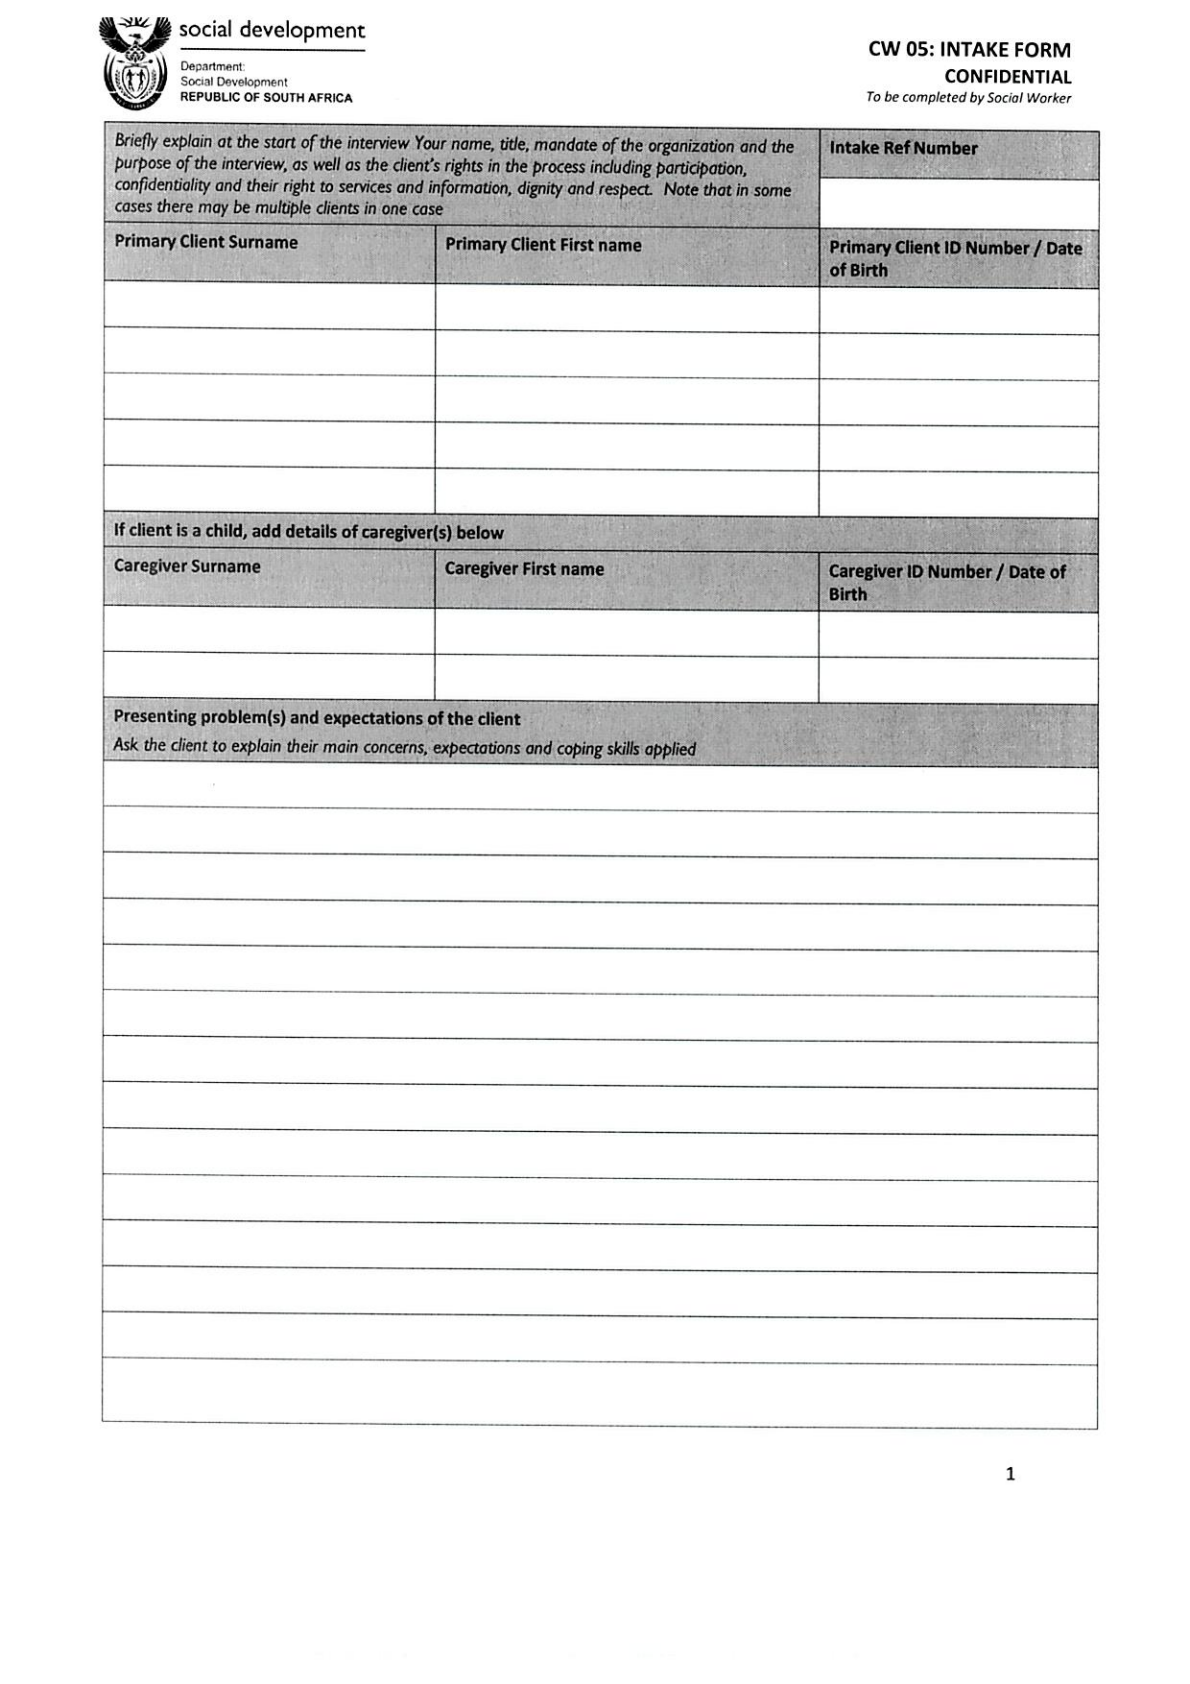
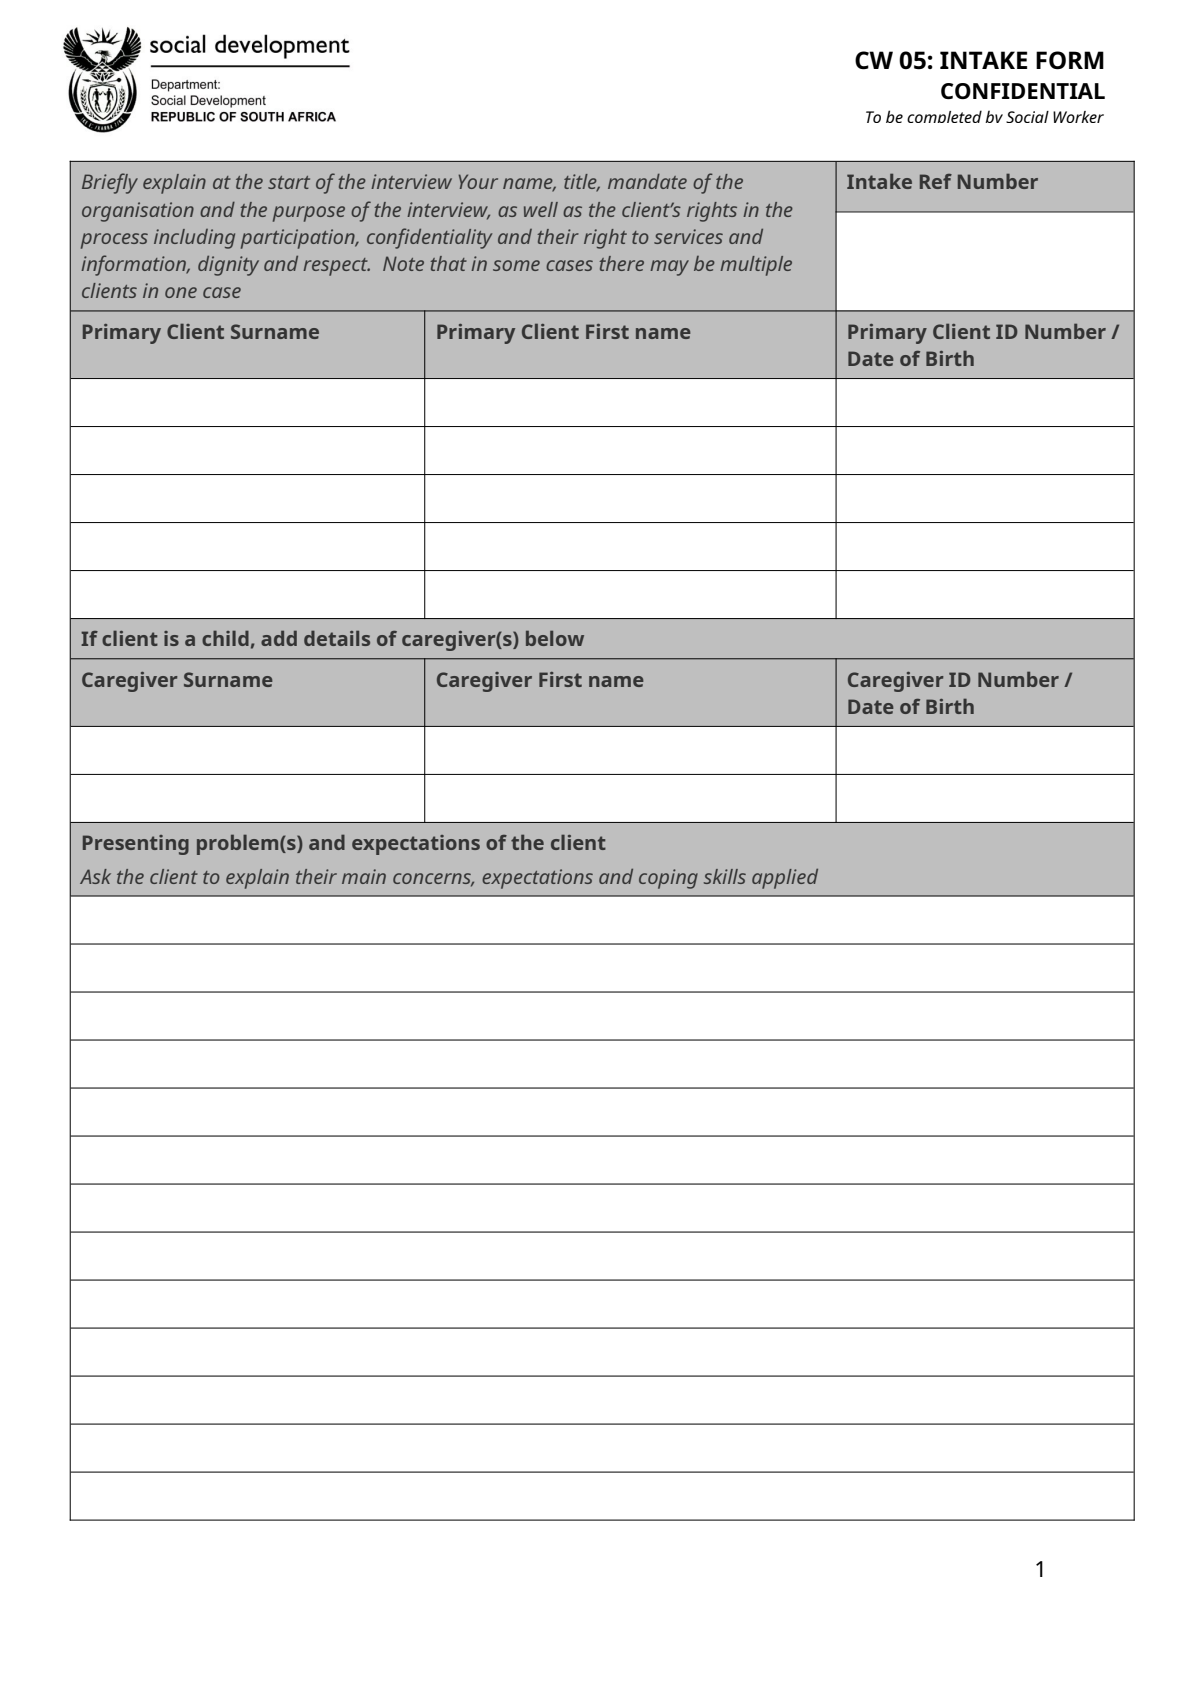
Phase 2 CW 05: Official Word Intake replaces NPO PDF blanks
Print /api/print/intake/ fills CW_05_Intake_Form_28082019.docx.
Scan blanks are four Word-rendered pages with recalibrated atlas boxes.

diff --git a/backend/core/form_atlas.py b/backend/core/form_atlas.py
@@ -1,8 +1,8 @@
 """One field atlas for fill, print, and Scan Intake.
 
 Boxes are normalised 0–1 on the official blank PNG (same file print uses).
-C01–C03 geometry is measured on Official Word blanks (C03 page 1 only).
-Other forms still use the NPO PDF blanks. Do not rename field labels.
+C01–C03 and CW 05 geometry is measured on Official Word blanks (C03 page 1
+only). Other forms still use the NPO PDF blanks. Do not rename field labels.
 """
 from functools import lru_cache
 
@@ -27,7 +27,8 @@ ATLAS_FORMS = {
         'orientation': 'portrait',
         'keywords': ['CW 05', 'CW05', 'INTAKE FORM', 'PRIMARY CLIENT SURNAME', 'INTAKE REF NUMBER'],
         'checklist_item': ('intake_form', 'CW05'),
-        'geometry': 'pdf',
+        # Boxes measured on CW_05_Intake_Form_28082019.docx blank PNGs (scale 2.0).
+        'geometry': 'word',
     },
     'c02': {
         'title': 'C02 ADULT Assessment Form',
@@ -351,24 +352,38 @@ def _build_fields():
         (0.2754, 0.7761, 0.9673, 0.7910),
     )
 
+    # CW 05 identity + key ticks measured on Official Word blanks (4 pages).
     intake = [
-        _f('household.org_household_number', 'Intake Ref Number', 0, (0.6891, 0.1057, 0.9235, 0.1366), 'printed'),
-        _f('caregiver.surname', 'Primary Client Surname', 0, (0.0874, 0.1663, 0.3664, 0.1960), 'handwrite'),
-        _f('caregiver.name', 'Primary Client First name', 0, (0.3664, 0.1681, 0.6891, 0.1977), 'handwrite'),
-        _f('caregiver.id_number', 'Primary Client ID Number / Date of Birth', 0, (0.6891, 0.1704, 0.9235, 0.1989), 'printed'),
-        _f('', 'Caregiver Surname', 0, (0.0874, 0.3593, 0.3655, 0.3884), 'handwrite'),
-        _f('', 'Caregiver First name', 0, (0.3655, 0.3610, 0.6882, 0.3901), 'handwrite'),
-        _f('', 'Caregiver ID Number / Date of Birth', 0, (0.6882, 0.3628, 0.9235, 0.3913), 'printed'),
-        _f('', 'Presenting problem(s) and expectations of the client', 0, (0.0866, 0.4513, 0.9227, 0.8486), 'narrative'),
-        _f('', 'Primary Problem Code (see CW 06)', 1, (0.0866, 0.4608, 0.3311, 0.4970), 'printed'),
-        _f('', 'Other Problem Codes', 1, (0.3311, 0.4620, 0.9227, 0.5000), 'printed'),
-        _f('', 'Risk Level Emergency', 1, (0.3403, 0.4679, 0.3521, 0.4757), 'checkbox', option='Emergency'),
-        _f('', 'Risk Level High', 1, (0.5370, 0.4691, 0.5487, 0.4768), 'checkbox', option='High'),
-        _f('', 'Risk Level Mild', 1, (0.7345, 0.4697, 0.7454, 0.4780), 'checkbox', option='Mild'),
-        _f('', 'Intake Action Emergency Action', 1, (0.3403, 0.5178, 0.3529, 0.5267), 'checkbox'),
-        _f('', 'Do you consent to the recommended Intake Action above Yes', 2, (0.3412, 0.0926, 0.3538, 0.1015), 'checkbox', option='Yes'),
-        _f('', 'Do you consent to the recommended Intake Action above No', 2, (0.3412, 0.1063, 0.3538, 0.1152), 'checkbox', option='No'),
-        _f('', 'Open file', 2, (0.3714, 0.8195, 0.3832, 0.8284), 'checkbox', option='Open file'),
+        _f('household.org_household_number', 'Intake Ref Number', 0,
+           _word_cell((0.7000, 0.1150, 0.9400, 0.1750), x=0.02), 'printed'),
+        _f('caregiver.surname', 'Primary Client Surname', 0,
+           _word_cell((0.0550, 0.2200, 0.3550, 0.3600), x=0.02), 'handwrite'),
+        _f('caregiver.name', 'Primary Client First name', 0,
+           _word_cell((0.3550, 0.2200, 0.7000, 0.3600), x=0.02), 'handwrite'),
+        _f('caregiver.id_number', 'Primary Client ID Number / Date of Birth', 0,
+           _word_cell((0.7000, 0.2200, 0.9400, 0.3600), x=0.02), 'printed'),
+        _f('', 'Caregiver Surname', 0,
+           _word_cell((0.0550, 0.4200, 0.3550, 0.5000), x=0.02), 'handwrite'),
+        _f('', 'Caregiver First name', 0,
+           _word_cell((0.3550, 0.4200, 0.7000, 0.5000), x=0.02), 'handwrite'),
+        _f('', 'Caregiver ID Number / Date of Birth', 0,
+           _word_cell((0.7000, 0.4200, 0.9400, 0.5000), x=0.02), 'printed'),
+        _f('', 'Presenting problem(s) and expectations of the client', 0,
+           (0.0600, 0.5200, 0.9400, 0.9200), 'narrative'),
+        _f('', 'Primary Problem Code (see CW 06)', 1,
+           _word_cell((0.0600, 0.5300, 0.5200, 0.5650), x=0.02), 'printed'),
+        _f('', 'Other Problem Codes', 1,
+           _word_cell((0.5200, 0.5300, 0.9400, 0.5650), x=0.02), 'printed'),
+        # Tick boxes sit on empty paper left of the printed option words.
+        _f('', 'Risk Level Emergency', 1, (0.3050, 0.5680, 0.3200, 0.5830), 'checkbox', option='Emergency'),
+        _f('', 'Risk Level High', 1, (0.5150, 0.5680, 0.5300, 0.5830), 'checkbox', option='High'),
+        _f('', 'Risk Level Mild', 1, (0.7250, 0.5680, 0.7400, 0.5830), 'checkbox', option='Mild'),
+        _f('', 'Intake Action Emergency Action', 1, (0.3050, 0.6270, 0.3200, 0.6420), 'checkbox'),
+        _f('', 'Do you consent to the recommended Intake Action above Yes', 2,
+           (0.3100, 0.2680, 0.3250, 0.2830), 'checkbox', option='Yes'),
+        _f('', 'Do you consent to the recommended Intake Action above No', 2,
+           (0.3300, 0.2880, 0.3450, 0.3030), 'checkbox', option='No'),
+        _f('', 'Open file', 3, (0.3450, 0.2950, 0.3600, 0.3100), 'checkbox', option='Open file'),
     ]
 
     cow2 = [

diff --git a/backend/core/tests/test_word_cw05.py b/backend/core/tests/test_word_cw05.py
@@ -1,0 +1,68 @@
+"""Phase 1–2: Official CW 05 prints as filled Word; blanks from Word pages."""
+from io import BytesIO
+
+from django.contrib.auth.models import Group, User
+from django.test import TestCase
+from docx import Document
+from docx.table import _Cell
+from rest_framework.authtoken.models import Token
+from rest_framework.test import APIClient
+
+from core.form_atlas import ATLAS_FORMS, fields_for, form_meta
+from core.official_blanks import ATLAS_VERSION, blank_info
+from core.word_forms import fill_cw05_docx, official_cw05_path
+
+SAMPLE = {
+    'household.org_household_number': '472',
+    'caregiver.surname': 'Moholoza',
+    'caregiver.name': 'Sisi Lettie',
+    'caregiver.id_number': '6511010326080',
+}
+
+
+class FillOfficialCw05Tests(TestCase):
+    def test_template_file_is_present(self):
+        self.assertTrue(official_cw05_path().exists())
+
+    def test_primary_client_identity_fills_the_word_form(self):
+        raw = fill_cw05_docx(SAMPLE)
+        doc = Document(BytesIO(raw))
+        table = doc.tables[0]
+        self.assertEqual(_Cell(table.rows[1]._tr.tc_lst[1], table).text.strip(), '472')
+        self.assertEqual(_Cell(table.rows[3]._tr.tc_lst[0], table).text.strip(), 'Moholoza')
+        self.assertEqual(_Cell(table.rows[3]._tr.tc_lst[1], table).text.strip(), 'Sisi Lettie')
+        self.assertEqual(_Cell(table.rows[3]._tr.tc_lst[2], table).text.strip(), '6511010326080')
+
+
+class PrintCw05WordTests(TestCase):
+    def setUp(self):
+        Group.objects.get_or_create(name='admin')
+        self.user = User.objects.create_user('cw05printer', password='x')
+        self.user.groups.add(Group.objects.get(name='admin'))
+        self.client = APIClient()
+        self.client.credentials(HTTP_AUTHORIZATION=f'Token {Token.objects.create(user=self.user).key}')
+
+    def test_print_intake_downloads_a_docx_not_pdf_canvas(self):
+        created = self.client.post('/api/households/', {'town': 'Westonaria'}, format='json')
+        hid = created.data['id']
+        token = Token.objects.get(user=self.user).key
+        response = self.client.get(f'/api/print/intake/?household_id={hid}&token={token}')
+        self.assertEqual(response.status_code, 200)
+        self.assertIn(
+            'application/vnd.openxmlformats-officedocument.wordprocessingml.document',
+            response['Content-Type'],
+        )
+        self.assertNotIn(b'official-payload', response.content)
+
+
+class Cw05WordAtlasTests(TestCase):
+    def test_intake_uses_word_geometry_and_four_pages(self):
+        self.assertEqual(ATLAS_FORMS['intake']['geometry'], 'word')
+        self.assertEqual(form_meta('intake')['pages'], 4)
+        info = blank_info('intake', 0)
+        self.assertEqual(info.get('source'), 'docx')
+        self.assertIn('CW_05_Intake_Form_28082019.docx', info.get('source_docx') or '')
+        self.assertIn('cw05', ATLAS_VERSION)
+        self.assertEqual(fields_for('intake', 0)[1]['label'], 'Primary Client Surname')
+        open_file = next(f for f in fields_for('intake') if f['label'] == 'Open file')
+        self.assertEqual(open_file['page'], 3)

diff --git a/backend/core/word_forms.py b/backend/core/word_forms.py
@@ -1,7 +1,7 @@
 """Fill official DSD Word templates. Do not overlay the NPO PDF.
 
-The NPO case-management PDF is a file-order guide only. Print for C01–C03
-writes into the Official Word templates under ``docs/official/dsd-source/``.
+The NPO case-management PDF is a file-order guide only. Print for C01–C03 and
+CW 05 writes into the Official Word templates under ``docs/official/dsd-source/``.
 """
 from __future__ import annotations
 
@@ -15,6 +15,7 @@ REPO_ROOT = Path(__file__).resolve().parents[2]
 OFFICIAL_C01 = REPO_ROOT / 'docs' / 'official' / 'dsd-source' / 'Official_C01_Template.docx'
 OFFICIAL_C02 = REPO_ROOT / 'docs' / 'official' / 'dsd-source' / 'C02_Adult_Assessment_Form.docx'
 OFFICIAL_C03 = REPO_ROOT / 'docs' / 'official' / 'dsd-source' / 'C03_Child_Beneficiary_Assessment.docx'
+OFFICIAL_CW05 = REPO_ROOT / 'docs' / 'official' / 'dsd-source' / 'CW_05_Intake_Form_28082019.docx'
 
 EMPTY_BOX = '☐'
 MARKED_BOX = '☑'
@@ -30,6 +31,14 @@ def official_c02_path() -> Path:
 
 def official_c03_path() -> Path:
     return OFFICIAL_C03
+
+
+def official_cw05_path() -> Path:
+    return OFFICIAL_CW05
+
+
+# Alias used by print/scan code (atlas key is ``intake``).
+official_intake_path = official_cw05_path
 
 
 def _tc_cell(table, row_index: int, cell_index: int) -> _Cell:
@@ -380,6 +389,38 @@ def fill_c03_docx(
     buf = BytesIO()
     doc.save(buf)
     return buf.getvalue()
+
+
+def _fill_cw05_identity(table, values: dict):
+    """Identity block on CW_05_Intake_Form_28082019.docx (table 0)."""
+    _clear_cell(_tc_cell(table, 1, 1), values.get('household.org_household_number') or '')
+    _clear_cell(_tc_cell(table, 3, 0), values.get('caregiver.surname') or '')
+    _clear_cell(_tc_cell(table, 3, 1), values.get('caregiver.name') or '')
+    id_or_dob = values.get('caregiver.id_number') or values.get('caregiver.date_of_birth') or ''
+    _clear_cell(_tc_cell(table, 3, 2), id_or_dob)
+
+
+def fill_cw05_docx(values: dict | None = None, template_path: Path | None = None) -> bytes:
+    """Return a filled Official CW 05 Intake .docx (bytes).
+
+    Fills intake ref + primary client identity. Caregiver-of-child rows,
+    narratives, risk ticks, and consent stay blank for paper / later atlas.
+    """
+    path = Path(template_path or official_cw05_path())
+    if not path.exists():
+        raise FileNotFoundError(f'Official CW 05 template missing: {path}')
+    values = values or {}
+    doc = Document(str(path))
+    if not doc.tables:
+        raise ValueError('Official CW 05 template does not have the expected tables')
+    _fill_cw05_identity(doc.tables[0], values)
+    buf = BytesIO()
+    doc.save(buf)
+    return buf.getvalue()
+
+
+# Atlas / print key for CW 05 is ``intake``.
+fill_intake_docx = fill_cw05_docx
 
 
 def values_from_household(household) -> dict:

diff --git a/backend/core/tests/test_form_atlas.py b/backend/core/tests/test_form_atlas.py
@@ -27,21 +27,24 @@ class AtlasGeometryTests(TestCase):
                 self.assertLess(y0, y1, field)
                 self.assertIn(field['kind'], {'sa_id', 'handwrite', 'printed', 'checkbox', 'date', 'narrative'})
 
-    def test_c01_uses_word_blanks_and_intake_uses_pdf(self):
+    def test_c01_c02_c03_and_cw05_use_word_geometry(self):
         self.assertTrue(has_geometry('c01'))
         self.assertTrue(has_geometry('c02'))
         self.assertTrue(has_geometry('intake'))
         self.assertEqual(form_meta('c01')['geometry'], 'word')
         self.assertEqual(form_meta('c02')['geometry'], 'word')
         self.assertEqual(form_meta('c03')['geometry'], 'word')
+        self.assertEqual(form_meta('intake')['geometry'], 'word')
         self.assertEqual(form_meta('c01')['pages'], 2)
-        self.assertEqual(form_meta('intake')['pages'], 3)
+        self.assertEqual(form_meta('intake')['pages'], 4)
         self.assertTrue(any(f['target'] == 'caregiver.id_number' and f['kind'] == 'sa_id' for f in fields_for('c01')))
         self.assertEqual(fields_for('c01', 0)[0]['label'], 'Org Household Nr')
         self.assertEqual(fields_for('intake', 0)[1]['label'], 'Primary Client Surname')
         self.assertEqual(load_meta()['pages']['c02:0'].get('source'), 'docx')
         self.assertEqual(load_meta()['pages']['c03:0'].get('source'), 'docx')
         self.assertEqual(load_meta()['pages']['c03:0'].get('docx_page'), 0)
+        self.assertEqual(load_meta()['pages']['intake:0'].get('source'), 'docx')
+        self.assertEqual(load_meta()['pages']['intake:3'].get('docx_page'), 3)
 
     def test_blank_png_hash_matches_repo_files(self):
         meta = load_meta()
@@ -153,6 +156,13 @@ class OfficialFormApiTests(TestCase):
             c03['Content-Type'],
         )
         self.assertNotIn(b'official-payload', c03.content)
+        intake = self.client.get(f'/api/print/intake/?household_id={hid}&token={token}')
+        self.assertEqual(intake.status_code, 200)
+        self.assertIn(
+            'application/vnd.openxmlformats-officedocument.wordprocessingml.document',
+            intake['Content-Type'],
+        )
+        self.assertNotIn(b'official-payload', intake.content)
         cow = self.client.get(f'/api/print/cow2_note/?household_id={hid}&token={token}')
         self.assertEqual(cow.status_code, 200)
         self.assertIn(b'official-payload', cow.content)

diff --git a/backend/core/form_views.py b/backend/core/form_views.py
@@ -82,7 +82,7 @@ class OfficialFormValuesView(APIView):
 
 
 def print_official(request, form):
-    """Official print: C01/C02/C03 are filled Word files; other atlas forms stay on canvas for now."""
+    """Official print: C01–C03 and CW 05 are filled Word files; other atlas forms stay on canvas."""
     user = _auth_user(request)
     if not user:
         return HttpResponse('Authentication required.', status=401)
@@ -93,10 +93,13 @@ def print_official(request, form):
     if not household:
         raise Http404('No household in scope')
 
-    # Phase 1+: C01–C03 print into official Word templates — never the NPO PDF.
-    if form in ('c01', 'c02', 'c03'):
+    # Phase 1+: official Word templates — never the NPO PDF overlay.
+    if form in ('c01', 'c02', 'c03', 'intake'):
         from django.http import HttpResponse as DjangoResponse
-        from .word_forms import fill_c01_docx, fill_c02_docx, fill_c03_docx, values_from_household
+        from .word_forms import (
+            fill_c01_docx, fill_c02_docx, fill_c03_docx, fill_cw05_docx,
+            values_from_household,
+        )
 
         values = values_from_household(household)
         if form == 'c01':
@@ -107,10 +110,14 @@ def print_official(request, form):
             payload = fill_c02_docx(values)
             filename = f"C02_{household.org_household_number or household.pk}.docx"
             label = 'C02'
-        else:
+        elif form == 'c03':
             payload = fill_c03_docx(values, member_slot=request.GET.get('member'))
             filename = f"C03_{household.org_household_number or household.pk}.docx"
             label = 'C03'
+        else:
+            payload = fill_cw05_docx(values)
+            filename = f"CW05_{household.org_household_number or household.pk}.docx"
+            label = 'CW 05'
         log_action(user, 'printed', f'Printed official {label} Word for Household #{household.pk}')
         response = DjangoResponse(
             payload,

diff --git a/backend/core/tests/test_atlas_geometry.py b/backend/core/tests/test_atlas_geometry.py
@@ -266,13 +266,11 @@ class SyntheticRoundTripTests(TestCase):
         ('c01', 0, 'household.district', 'RANDWEST'),
         ('c01', 0, 'household.house_number', '2291'),
         ('c02', 0, 'caregiver.name', 'THANDI'),
-        ('c02', 0, 'caregiver.surname', 'DLAMINI'),
         ('c03', 0, 'member.0.name', 'MPILO'),
-        ('c03', 0, 'member.0.surname', 'KHANYI'),
     )
     TICK_MARKS = (
         ('intake', 1, 'Risk Level Emergency'),
-        ('intake', 2, 'Open file'),
+        ('intake', 3, 'Open file'),
         ('intake', 2, 'Do you consent to the recommended Intake Action above Yes'),
     )
 
@@ -310,6 +308,7 @@ class SyntheticRoundTripTests(TestCase):
             ('c03', 0),
             ('intake', 1),
             ('intake', 2),
+            ('intake', 3),
         )
         for code, page in pages:
             painted, expected_text, expected_ticks = self._painted(code, page)

diff --git a/backend/core/official_blanks.py b/backend/core/official_blanks.py
@@ -1,8 +1,8 @@
 """Canonical blank pages for fill, print, and Scan Intake.
 
-C01–C03 blanks are rendered from their Official Word templates (C03 uses
-page 1 only). Other forms still use the NPO case-management PDF pages.
-Never invent a second HTML layout.
+C01–C03 and CW 05 blanks are rendered from their Official Word templates
+(C03 uses page 1 only). Other forms still use the NPO case-management PDF
+pages. Never invent a second HTML layout.
 """
 from __future__ import annotations
 
@@ -12,7 +12,7 @@ from pathlib import Path
 
 BLANKS_DIR = Path(__file__).resolve().parent / 'official_blanks'
 META_PATH = BLANKS_DIR / 'blanks.json'
-ATLAS_VERSION = 'word-c01-c02-c03-v2.2'
+ATLAS_VERSION = 'word-c01-c02-c03-cw05-v2.3'
 
 
 def load_meta():

diff --git a/docs/official/PRINT_TEMPLATE_INVENTORY.md b/docs/official/PRINT_TEMPLATE_INVENTORY.md
@@ -6,20 +6,20 @@ The full field inventory is [`WORD_TEMPLATES.md`](WORD_TEMPLATES.md).
 `NPO_case_management_file.pdf` is a **guide** for how a household file is
 assembled. Do **not** write, print, or scan by overlaying that PDF.
 
-**Phase 1 (C01–C03 print):** filling Official Word templates and downloading
-those `.docx` files.
+**Phase 1 (C01–C03 + CW 05 print):** filling Official Word templates and
+downloading those `.docx` files.
 
-**Phase 2 (C01–C03 scan blanks):** blank PNGs and atlas boxes are measured on
-those Word renders (`ATLAS_VERSION` `word-c01-c02-c03-v2.2`). C03 uses **page 1
-only** (a trailing blank page in the Word file is ignored). Other forms still
-use NPO PDF-derived blanks until their Word phases land.
+**Phase 2 (C01–C03 + CW 05 scan blanks):** blank PNGs and atlas boxes are
+measured on those Word renders (`ATLAS_VERSION` `word-c01-c02-c03-cw05-v2.3`).
+C03 uses **page 1 only**. CW 05 Word exports **4 pages** (old NPO PDF had 3).
+Other forms still use NPO PDF-derived blanks until their Word phases land.
 
 ## Atlas forms
 
 | Code | Official Word source | PDF pp. (guide only) | Blank PNG | Verdict |
 | --- | --- | --- | --- | --- |
 | `c01` | `dsd-source/Official_C01_Template.docx` | 4–5 | `c01_p0.png`, `c01_p1.png` | **Word print + Word blanks** |
-| `intake` (CW 05) | `dsd-source/CW_05_Intake_Form_28082019.docx` | 8–10 | `intake_p0.png`–`p2` | Still PDF blank / canvas until a CW 05 Word phase |
+| `intake` (CW 05) | `dsd-source/CW_05_Intake_Form_28082019.docx` | 8–10 | `intake_p0.png`–`p3` | **Word print + Word blanks** (4 pages) |
 | `c02` | `dsd-source/C02_Adult_Assessment_Form.docx` | 6 | `c02_p0.png` | **Word print + Word blanks**; atlas identity only |
 | `c03` | `dsd-source/C03_Child_Beneficiary_Assessment.docx` | 7 | `c03_p0.png` | **Word print + Word page-1 blank**; atlas identity only (`member.N`) |
 | `cow2_note` | `dsd-source/COW_2_Process_note_04042019.doc` | Word original | `cow2_p0.png`, `cow2_p1.png` | Overlay on official blank; narratives stay attach-only |

diff --git a/docs/official/WORD_TEMPLATES.md b/docs/official/WORD_TEMPLATES.md
@@ -384,15 +384,15 @@ Instructions plus **CLIENT REFERRAL FORM**:
 
 ## CW series (`.doc` / CW 05 `.docx`)
 
-Unchanged originals: CW 4a internal referral, CW 4b external referral, CW 11
-process note, CW 13 termination, CW 05 intake.
+Unchanged originals (still PDF/canvas atlas): CW 4a internal referral, CW 4b
+external referral, CW 11 process note, CW 13 termination.
 
-CW 05 fields include: intake ref; primary client surname / first name / ID or
-DOB; caregiver details if the client is a child; presenting problems;
-preliminary assessment; primary and other problem codes (CW 06); risk level
-(CW 07: Emergency 24–48 hours / High 1 week / Mild 3 weeks); intake actions
-(emergency, internal assessment, case consultation, CW 4A, CW 4B, issue
-resolved, comprehensive assessment not required); referral follow-up.
+**CW 05** (`CW_05_Intake_Form_28082019.docx`) is on Word print + Word blanks
+(`intake` atlas key, 4 pages). Fields include: intake ref; primary client
+surname / first name / ID or DOB; caregiver details if the client is a child;
+presenting problems; preliminary assessment; primary and other problem codes
+(CW 06); risk level (CW 07: Emergency 24–48 hours / High 1 week / Mild 3
+weeks); intake actions; referral follow-up; consent; open file.
 
 ---
 
